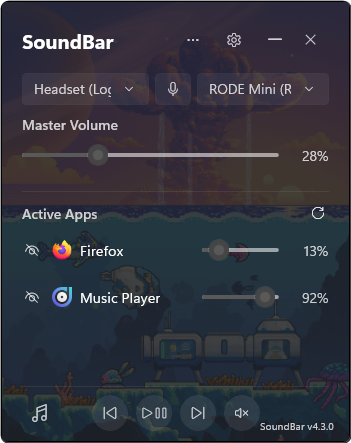
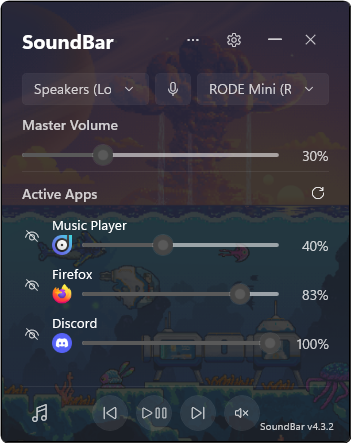
update README

diff --git a/README.md b/README.md
@@ -65,8 +65,8 @@ This is the main SoundBar window. Each number is explained next to it.
         <li><b>Microphone:</b> Choose which microphone to use.</li>
         <li><b>Master volume:</b> The volume for your whole PC.</li>
         <li><b>Hide:</b> Remove an app you don't need from the list.</li>
-        <li><b>App name:</b> Click the name to give it a nickname. Click the app's icon to mute it.</li>
-        <li><b>App volume:</b> Every app gets its own slider.</li>
+        <li><b>App name:</b> Shown above the app's slider. Click it to give the app a nickname.</li>
+        <li><b>App volume:</b> Every app gets its own slider. Click the app's icon beside it to mute it.</li>
         <li><b>Music player:</b> Switch to a big view of the song that's playing.</li>
         <li><b>Media buttons:</b> Previous, play/pause, next and mute everything.</li>
         <li><b>Version:</b> Click to see what's new in this version.</li>
@@ -81,11 +81,11 @@ This is the main SoundBar window. Each number is explained next to it.
 
 ## Control every app's volume
 
-Every app that's playing sound gets its own slider, so you can balance a game, a video call and your music without opening Windows settings.
+Every app that's playing sound gets its own slider, so you can balance a game, a video call and your music without opening Windows settings. Each app's name sits just above its slider, so the slider can stretch across nearly the whole window, even when SoundBar is small.
 
 - **Drag a slider** to change that app's volume.
-- **Click an app's icon** to mute or unmute it.
-- **Click an app's name** to rename it to something friendlier (handy for apps with confusing names).
+- **Click an app's icon** (beside its slider) to mute or unmute it.
+- **Click an app's name** (above its slider) to rename it to something friendlier (handy for apps with confusing names).
 - **Click the eye** to hide an app you never want to see. You can bring it back at any time from **Settings > Apps > Hidden Apps**.
 - **Missing an app?** Apps only appear once they start playing sound. Click the refresh arrow next to **Active Apps** to check again.
 
